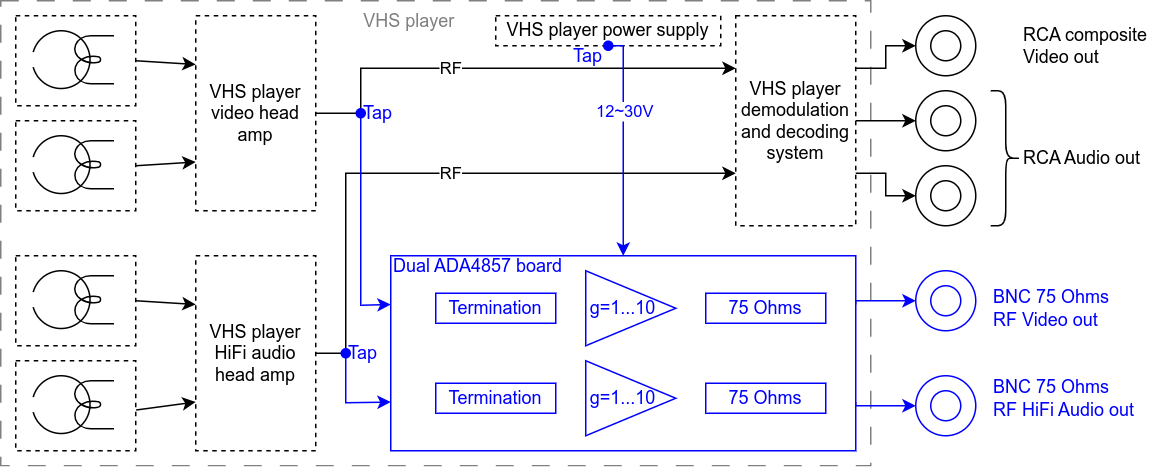
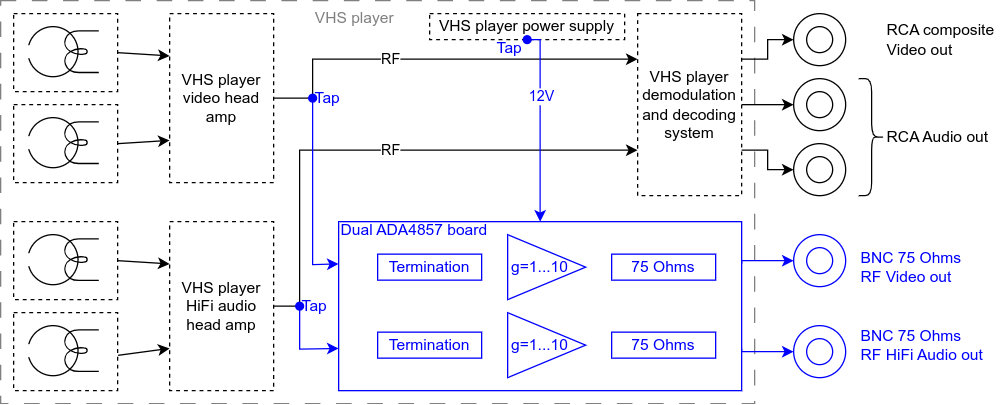
more work on doc details

diff --git a/README.md b/README.md
@@ -4,23 +4,23 @@
 
 An [ADA4857][ada4857-datasheet] based, configurable, dual channel amplifier and line driver for [VHS decode][vhs-decode].
 The board is intended to be permanently mounted into a chosen VHS player, providing an amplified, 75 Ohms impedance output for the video and HiFi audio RF signals.
-To build the amp you need to choose the appropriate components fitting for your VHS player, read on to find out more.
-
 Find gerbers, BOM and pick'n'place files ready for fabrication over in the [releases section](https://gitlab.com/wolfre/vhs-rf-amp-ada4857/-/releases).
+Most of the boards are pre-assembled, but you will need to choose (and solder) the appropriate components fitting for your VHS player for final installation.
+
 This project is a follow up / improvement on the [previous SGM8302 dual channel amplifier](https://gitlab.com/wolfre/vhs-rf-amp-sgm8302) of the same nature.
 
 ## Overview
 
 The following diagram shows the intended usecase for this dual channel amplifier installed into a VHS player.
-The Parts that will be installed into the VHS player, coming from this project are drawn in blue.
+The Parts that are coming from this project and will be installed are drawn in blue.
 
 ![system-diagram.png](system-diagram.png)
 
 The design is based on two [ADA4857][ada4857-datasheet] single channel op amps, with a [DS8604-A0S3][ds8604-datasheet] 10V LDO and a few other passive components.
 Both RF paths are identical and all the following discussion applies to path A and B equally.
 The op amps are driven from a single 10V power supply (via an [LDO][wiki-ldo]), meaning the neutral / center voltage for the op amps is 5V.
-Each of the amp inputs is being AC coupled into a termination resistor (a 1:1 divider to add the needed 5V DC offset) and will need to be selected according to you needs (see [build guide][self-build-guide]).
-The op amps are used in a non-inverting design with a fixed gain factor, which also must be selected according to you needs (see [build guide][self-build-guide]).
+Each of the amp inputs is being AC coupled into a termination resistor (a 1:1 divider to add the needed 5V DC offset) and will need to be configured according to your VHS players needs (see [build guide][self-build-guide]).
+The op amps are used in a non-inverting design with a fixed gain factor, which also must be configured according to your VHS players signals (see [build guide][self-build-guide]).
 The amp outputs have a DC block capacitor and 75 Ohms resistor in series, for the usual 75 Ohms impedance line and load to drive.
 Mechanically the board is designed for [edge mount SMA connectors](https://www.google.com/search?q=sma+connector+edge+mount) but can also fit 2.54mm pin headers mounted sideways, or direct soldering.
 
@@ -32,17 +32,12 @@ The following guide will walk you through each step in details.
 Before you start ordering and building, you should read the entire guide at least once so you know what to expect.
 Here's an overview of the steps you will needed to do:
 - [Order the amp boards with JLCPCB][ordering-guide-jlc] (most of the components come pre-assembled from the fab).
-  You probably want to buy 4 edge mount SMA connectors, with about 6.5mm edge length.
-  But you can also solder directly to the amp board or solder 2.54mm pin headers in lying flat on the board.
-- Install a tap on the RF video and RF HiFi off the head amp from inside your player.
+- Install a tap on the RF video and RF HiFi signals from the tape head amp of your player.
   As this is specific to your player model, only some general information is covered in this guide.
 - Find a suitable power supply rail in your VHS player (something with at least 12V).
   And configure the amp boards power supply section to work with your chosen power rail.
-  You may need to buy an additional [Zener diode][wiki-zener] for this step (see later details).
 - Configure each amp paths input termination to match / work with the players head amps.
-  You will need solder additional 0805 resistors to the amp board for this step (see later details).
-- Configure each amp paths signal gain to deliver an signal level high enough to fit your capture device.
-  You will need solder additional 0805 resistors to the amp board for this step (see later details).
+- Configure each amp paths signal gain to deliver a signal level high enough to fit your capture device.
 - Mount the amp board into your VHS player and wire up suitable output connectors.
   As this is specific to your player model, this step is beyond the scope of this guide and will not be covered.
 
@@ -53,11 +48,11 @@ However you may want to start looking here, as these videos cover the things nee
 - Branchus Creations Beginner's Guide to Soldering Electronics [Part 1](https://www.youtube.com/watch?v=M2Jf8cebwCs) and [Part 2](https://www.youtube.com/watch?v=BPuH1Z2npoQ)
 - Electronoobs [SMD Soldering Tutorial | Guide | Tools | Tecniques | Stencil](https://www.youtube.com/watch?v=fYInlAmPnGo)
 
-You will be dealing with high frequency analog signals, that need to be measured and observed to find the correct input termination and gain factor.
+Also you will be dealing with high frequency analog signals, that need to be measured and observed to find the correct input termination and gain factor.
 This requires either a [Digital storage oscilloscope][wiki-dso], or an [analog oscilloscope][wiki-scope] in good working order.
 To correctly assess the signals, your scope should have an analog bandwidth of at least 20MHz, and you need high impedance probes as well
 (1M or greater, usually the 10x setting on your oscilloscopes probes is a good fit).
-This guide will assume you are familiar with oscilloscopes (if you are unsure have a look at GreatScott! [Everything you need to know when buying/using an Oscilloscope! EB#49](https://www.youtube.com/watch?v=d58GzhXKKG8)).
+This guide will assume you are familiar with oscilloscopes (you may have have a look at GreatScott!s [Everything you need to know when buying/using an Oscilloscope! EB#49](https://www.youtube.com/watch?v=d58GzhXKKG8) to get started).
 
 As evident from the steps above, you will need to know your way around your VHS player and a service manual will be of great help.
 
@@ -86,10 +81,12 @@ Selecting them will be covered in subsequent sections, but here's a list of what
 
 ### RF tap
 
+The [VHS-Decode wiki][rf-tap] has an ever growing wealth of information on various players, so you should start over there.
+
 When looking for an RF tap point, the goal is to be as close to the tape head amplifier outputs as possible.
 The following diagram shows the logical components of a VHS RF tape pickup inside your player (both the RF video and HiFi RF audio paths will look similar).
 
-![render-rev-a-back.png](render-rev-a-back.png)
+![head-tap.png](head-tap.png)
 
 The ideal tap point is right after the head switch, so that one RF signal contains both head outputs.
 The newer your player the more components will be integrated in to complex ICs and may not be available separately.
@@ -150,19 +147,21 @@ Hook up a [DSO][wiki-dso] to the output of your tap and observe the signal level
 Temporarily attach the chosen resistor value between signal and (analog) ground to see if the levels drop.
 If they stay the same then repeat with a resistor value that is about half your current value, if they do drop, double the value.
 You are looking for a value where the signal is just barely dropping, multiply that value by 20, that's your input termination.
-This termination value is then be installed in both R11 and R12 positions (R21 and R22 respectively).
+This termination value is then installed in both R11 and R12 positions (or R21 and R22 respectively).
 
 One of the signal paths is going to be for video, the other for audio.
 As both path A and B are equal on the [ADA4857][ada4857-datasheet] amp board, it does not matter which path is used for what signal.
-But you have to do the above try'n'error sequence for both head amps as they possibly differ.
+But you have to do the above try'n'error sequence for both head amps / taps as they possibly differ.
 
 ### Adapting the amp gain to your VHS player
 
 Once you have your input stage setup, you need to choose the gain for each signal path.
-Make sure to observe the video and audio RF signal levels from your tap points with different VHS tapes.
+To do that, observe the video and audio RF signal levels from your tap points when playing different VHS tapes.
 Different tapes will have different signal levels (test newer and older tapes, NTSC and PAL, etc).
 Consulting the service manual for your player may also give you a good idea about the expected signal levels.
 Based on this you now need to choose the values for R13 + R14 (path A) and R23 + R24 (path B).
+Again every VHS player is different, but just for reference, the video levels could be somewhere around 100mVpp to 300mVpp.
+HiFi RF signal levels are usually higher than video levels, so maybe 500mVpp ~ 1000mVpp.
 
 You should also know what your target capture device needs as a good input range.
 A [CXADC](https://github.com/happycube/cxadc-linux3) seems to be [fine with about 1.5Vpp](https://gitlab.com/wolfre/cx25800-11z-cxadc-rework-measurements) (peak-to-peak).
@@ -203,10 +202,6 @@ This is the default found on CX based capture cards and in other video based app
 However this can be changed to 50 Ohms by replacing the series resistors R15 and/or R24 with a 50 Ohms 0603.
 You can either do this by editing the BOM when ordering, or simply replace them afterwards if needed.
 
-## Final words
-
-**TODO**
-
 ## Changelog
 
 See [CHANGELOG.md](CHANGELOG.md).
@@ -232,3 +227,4 @@ See [releases](https://gitlab.com/wolfre/vhs-rf-amp-ada4857/-/releases) for PCB 
 [ebay-xl4015]: https://www.ebay.com/sch/i.html?&_nkw=XL4015+step+down
 [wiki-ldo]: https://en.wikipedia.org/wiki/Low-dropout_regulator
 [xl4015-datasheet]: https://datasheet.lcsc.com/lcsc/1811081616_XLSEMI-XL4015E1_C51661.pdf
+[vhs-decode]: https://github.com/oyvindln/vhs-decode
